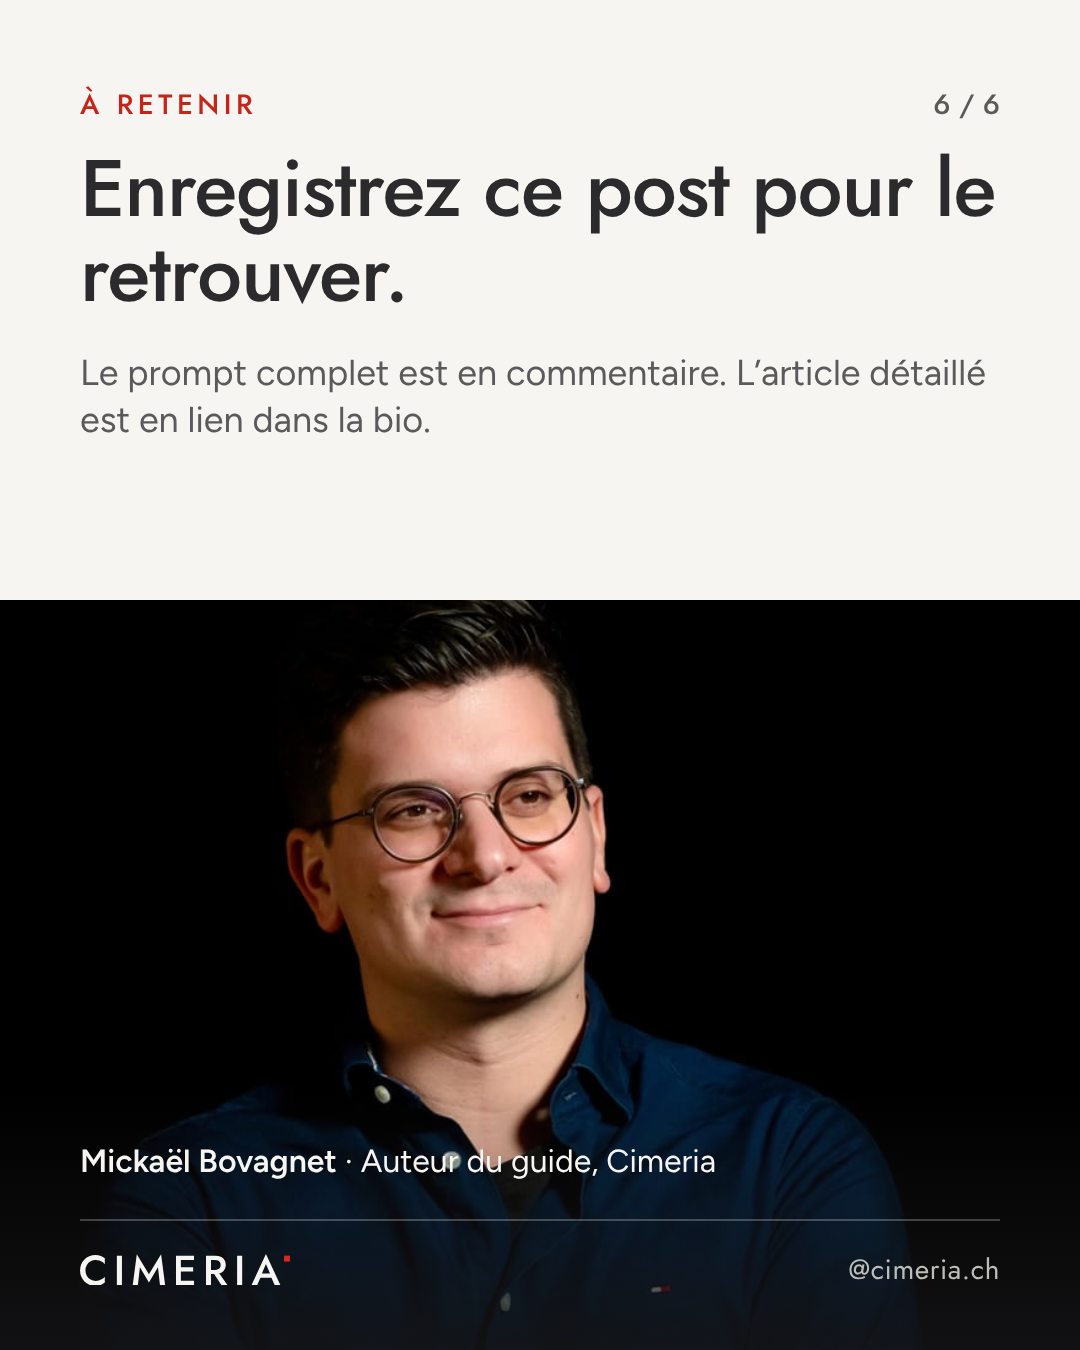
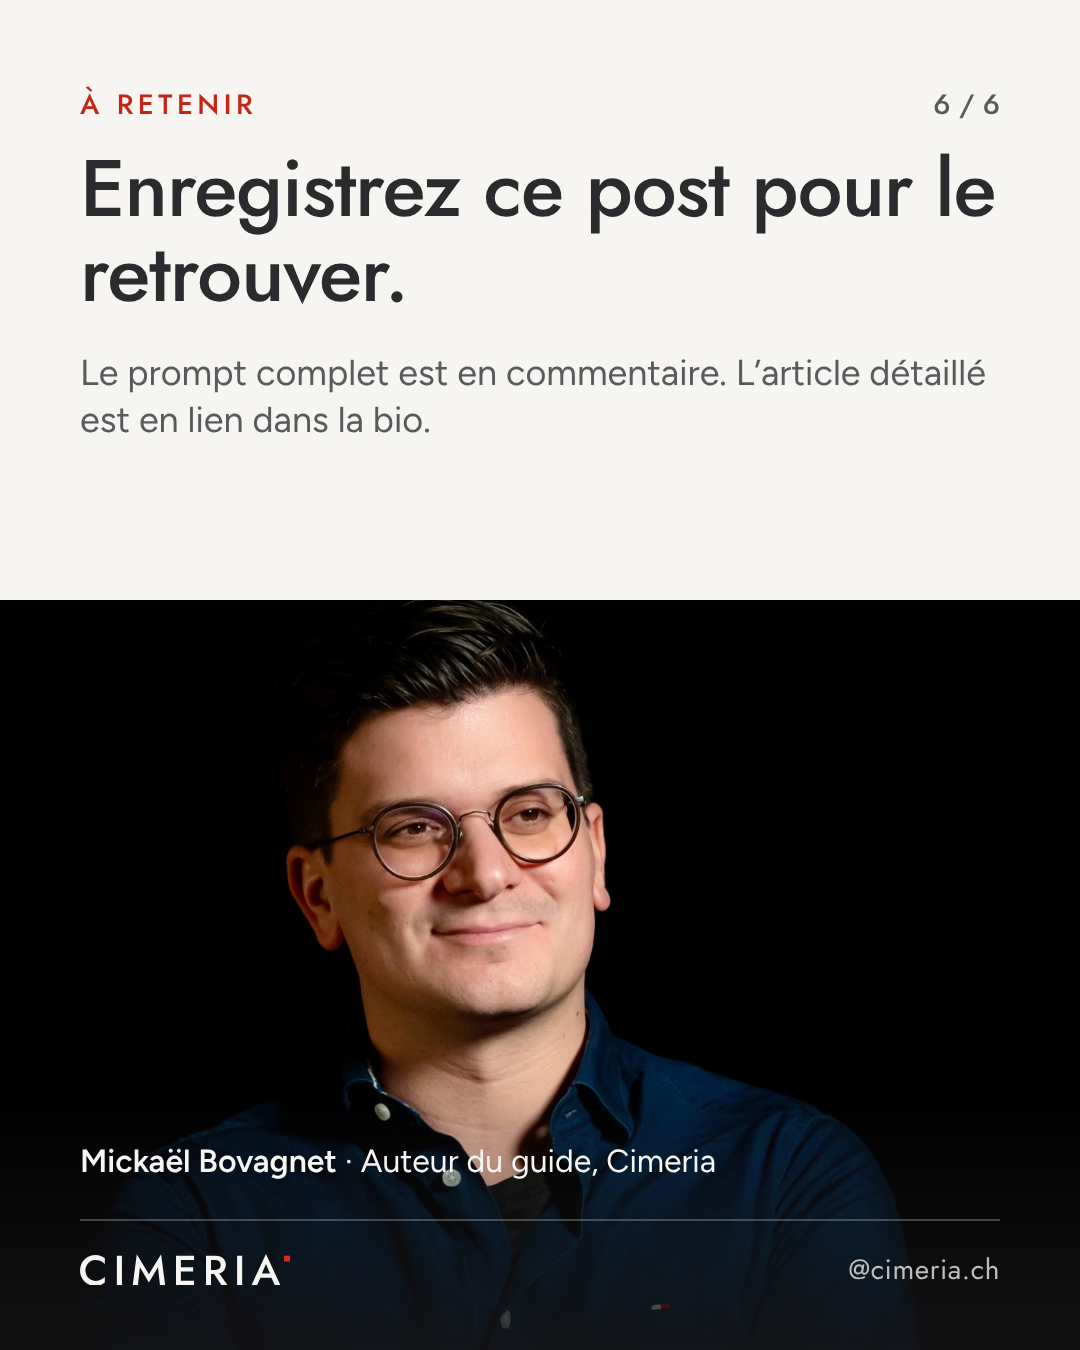
Portraits : règle des variantes IA, modèle de prompt en 4 C, photo de référence en haute définition
Claude-Session: https://claude.ai/code/session_01QYrK9sT28DGg33dLHEJ4sL

diff --git a/gabarits/generer.py b/gabarits/generer.py
@@ -401,13 +401,14 @@ def liste(v):
     return ed_page(c['fond'], corps)
 
 def point_de_vue(v):
-    """Citation de Mickaël et portrait en moitié basse. Champs : rubrique, citation (sans guillemets), auteur, photo (facultatif)."""
+    """Citation de Mickaël et portrait en moitié basse. Champs : rubrique, citation (sans guillemets), auteur, photo (facultatif), photo_ia (true pour une variante générée, voir images/portraits/README.md)."""
     c = CLAIR; photo = v.get("photo", str(ICI / "images/mickael-bovagnet.jpg"))
     corps = f"""<div class='rub'>{e(v.get('rubrique','Point de vue'))}</div>
-    <div class='ed-titre' style='position:absolute;left:80px;right:80px;top:146px;font-size:{tt(v['citation'],70,70,58)}px;line-height:1.08'>« {e(v['citation'])} »</div>
+    <div class='ed-titre' style='position:absolute;left:80px;right:80px;top:146px;font-size:{tt(v['citation'],70,70,58)}px;line-height:1.08'>{e('« ' + v['citation'] + ' »')}</div>
     <div style='position:absolute;left:80px;top:470px;font-size:30px;color:{c['douce']}'>{e(v.get('auteur','Mickaël Bovagnet, auteur du guide'))}</div>
     <div style='position:absolute;left:0;right:0;top:600px;bottom:0;background:url({img(photo)}) center 18%/cover'></div>
     <div style='position:absolute;left:0;right:0;bottom:0;height:220px;background:linear-gradient(rgba(20,20,22,0),rgba(20,20,22,.85))'></div>
+    {f"<div style='position:absolute;right:80px;bottom:150px;font-size:22px;color:rgba(246,245,242,.7)'>Portrait réalisé avec l’IA</div>" if v.get('photo_ia') else ''}
     <div class='pied' style='border-top-color:rgba(246,245,242,.25)'>{logotype(ED_BLANC_C, c['rouge'], 210)}<div class='site' style='color:{ED_DOUCE_S}'>{e(v.get('droite','cimeria.ch'))}</div></div>"""
     return ed_page(c['fond'], corps)
 
@@ -441,7 +442,7 @@ def cas_etape(v):
     <div style='position:absolute;left:80px;right:80px;top:430px;bottom:170px;display:flex;flex-direction:column'>
       <div style='background:#FFFFFF;border-radius:18px;padding:44px 52px;box-shadow:0 20px 50px rgba(43,43,45,.12)'>
         <div class='etiq'>Vous ajoutez</div>
-        <div style='font-size:50px;line-height:1.28;margin-top:16px'>« {e(v['ajout'])} »</div></div>
+        <div style='font-size:50px;line-height:1.28;margin-top:16px'>{e('« ' + v['ajout'] + ' »')}</div></div>
       <div style='flex:1;display:flex;flex-direction:column;justify-content:center;padding-top:36px'>
         <div class='etiq'>L’IA vous rend</div>{rend}
         <div class='etiq' style='margin-top:52px'>{e(lib)}</div>
@@ -450,7 +451,7 @@ def cas_etape(v):
     return ed_page(c['fond'], corps)
 
 def cas_fin(v):
-    """Dernière diapositive d'un cas pratique, même grille que le point de vue. Champs : titre, texte, auteur, photo (facultatif), position, total."""
+    """Dernière diapositive d'un cas pratique, même grille que le point de vue. Champs : titre, texte, auteur, photo (facultatif), photo_ia (true pour une variante générée), position, total."""
     c = CLAIR; photo = v.get("photo", str(ICI / "images/mickael-bovagnet.jpg"))
     corps = f"""<div class='rub'>{e(v.get('rubrique','À retenir'))}</div>{ed_cpt(v)}
     <div class='ed-titre' style='position:absolute;left:80px;right:80px;top:146px;font-size:80px'>{e(v.get('titre','Enregistrez ce post pour le retrouver.'))}</div>
@@ -458,6 +459,7 @@ def cas_fin(v):
     <div style='position:absolute;left:0;right:0;top:600px;bottom:0;background:url({img(photo)}) center 18%/cover'></div>
     <div style='position:absolute;left:0;right:0;bottom:0;height:260px;background:linear-gradient(rgba(20,20,22,0),rgba(20,20,22,.88))'></div>
     <div style='position:absolute;left:80px;bottom:170px;font-size:32px;color:{ED_BLANC_C}'><b style='font-weight:600'>{e(v.get('auteur','Mickaël Bovagnet'))}</b> · {e(v.get('fonction','Auteur du guide, Cimeria'))}</div>
+    {f"<div style='position:absolute;right:80px;bottom:150px;font-size:22px;color:rgba(246,245,242,.7)'>Portrait réalisé avec l’IA</div>" if v.get('photo_ia') else ''}
     <div class='pied' style='border-top-color:rgba(246,245,242,.25)'>{logotype(ED_BLANC_C, c['rouge'], 210)}<div class='site' style='color:{ED_DOUCE_S}'>{e(v.get('droite','@cimeria.ch'))}</div></div>"""
     return ed_page(c['fond'], corps)
 

diff --git a/gabarits/images/portraits/README.md b/gabarits/images/portraits/README.md
@@ -1,0 +1,95 @@
+# Portraits de Mickaël Bovagnet
+
+Règle validée par Mick le 17 novembre 2026. Elle complète la charte des réseaux (`CLAUDE.md`, section 4).
+
+## La règle
+
+### Ce qui est autorisé
+- Des variantes de portrait réalisées avec l'IA à partir d'une **vraie photo de Mickaël**, la photo de référence de ce dossier.
+- Uniquement sur les **réseaux sociaux de Cimeria** (Instagram, LinkedIn, Facebook), dans les gabarits `point_de_vue` et `cas_fin`.
+- Ce qui peut varier :
+  - la pose ;
+  - le cadrage, du gros plan au mi-corps ;
+  - l'expression ;
+  - la tenue, dans le style réel de Mickaël (chemise et veste bleu marine, chemise blanche) ;
+  - la lumière de studio.
+
+### Ce qui est interdit
+- Toute mise en scène inventée : lieu, décor, événement, scène de conférence, bureau, poignée de main, public.
+- Tout objet qui raconte une situation : micro, écran, livre, tasse, ordinateur.
+- Toute autre personne, même floue.
+- Toute modification de l'apparence de Mickaël :
+  - visage, âge, poids, carrure ;
+  - coupe de cheveux, barbe ;
+  - lunettes ;
+  - peau lissée.
+- Un logo de marque sur les vêtements, du texte, un accessoire absent de la photo d'origine.
+- Une variante tirée d'une autre variante. On repart toujours de la photo de référence pour éviter que la ressemblance dérive.
+- La photo de profil des comptes, le site cimeria.ch et le profil LinkedIn personnel de Mickaël. Ils gardent une vraie photo.
+
+### Ressemblance stricte
+Une variante n'est retenue que si elle passe **chaque** point ci-dessous, en comparaison côte à côte avec la photo de référence, à taille réelle. Au moindre doute, elle est rejetée.
+
+1. La forme du visage, du nez, des oreilles et de la mâchoire est identique.
+2. Les lunettes sont rondes, à fine monture métallique, de même taille sur le visage.
+3. Les cheveux bruns courts sont coiffés vers l'arrière, avec la même implantation et le même volume.
+4. Les yeux sont bruns, les sourcils ont la même forme et le sourire garde la même légère asymétrie.
+5. La carnation et le grain de peau sont naturels, sans effet de peau de cire.
+6. Les mains ont cinq doigts, des articulations crédibles et aucune déformation.
+7. Les vêtements sont cohérents : boutons alignés, col symétrique, aucun logo.
+8. Le fond est uni, sans tache, sans motif et sans artefact.
+9. Mickaël valide lui-même. Idéalement, un proche confirme qu'il le reconnaît sans hésiter.
+
+### Transparence
+- Le texte alternatif de chaque image qui contient une variante mentionne « Portrait réalisé avec l'IA à partir d'une photo de Mickaël Bovagnet ».
+- Le visuel porte la mention discrète « Portrait réalisé avec l'IA » au bas de la photo. Les gabarits l'ajoutent quand le champ `photo_ia` vaut `true`.
+- À la publication sur Instagram, Mickaël active l'étiquette IA dans les paramètres avancés du post.
+- Les variantes ne sont jamais présentées comme des photos prises sur le vif.
+
+### Rangement
+- Photo de référence : `reference-bras-croises.jpg`, vraie photo, sans métadonnées.
+- Variantes validées : `ia-NN-pose.jpg` (par exemple `ia-01-explique-assis.jpg`), en 1'500 pixels de large au moins.
+- Chaque variante est inscrite dans `registre.md` avec la pose, l'outil, la date et la validation.
+- Les métadonnées des fichiers sont retirées avant d'entrer dans ce dépôt, qui est public.
+
+## Le modèle de prompt
+
+Il suit la méthode des 4 C de Cimeria. Joindre la photo de référence, coller le prompt, remplacer la ligne « Pose » par une pose du catalogue ci-dessous. Une seule variante par demande, en repartant toujours de la photo de référence.
+
+```text
+Contexte
+Voici une vraie photo de moi, Mickaël Bovagnet, prise en studio. Je publie un média sur l'intelligence artificielle pour des dirigeants de PME en Suisse romande. J'ai besoin de variantes de ce portrait pour mes réseaux sociaux, sans repasser par le studio.
+
+Consigne
+Crée une nouvelle photo de moi, avec une autre pose, en gardant exactement mon visage et mon apparence. La personne sur l'image doit être reconnaissable sans hésitation par quelqu'un qui me connaît.
+
+Contenu
+Pose : [coller une pose du catalogue]
+Garde à l'identique : la forme du visage, du nez, des oreilles et de la mâchoire, mes yeux bruns et mes sourcils, mes cheveux bruns courts coiffés vers l'arrière, mes lunettes rondes à fine monture métallique, ma carnation et le grain naturel de ma peau, mon âge et ma carrure, mon sourire légèrement asymétrique.
+Tenue : chemise bleu marine unie comme sur la photo, sans aucun logo. [ou : veste bleu marine sur chemise blanche unie]
+
+Cadre
+Photo de studio réaliste, fond uni anthracite très sombre et sans motif, lumière douce venant de la gauche comme sur la photo d'origine, rendu d'un objectif de 85 mm. Format vertical 4:5, haute définition, au moins 1'500 pixels de large. Laisse de l'espace au-dessus de la tête.
+N'ajoute aucun décor, aucun objet, aucune autre personne, aucun texte, aucun logo, aucun accessoire. Ne lisse pas la peau, ne me rajeunis pas, ne m'amincis pas, ne change pas mes lunettes ni ma coiffure.
+Si une consigne t'oblige à modifier mon visage, garde le visage et simplifie la pose.
+```
+
+Une version anglaise donne parfois un meilleur résultat selon l'outil. Elle reprend les mêmes blocs : « Keep my face and appearance exactly as in the attached photo… ».
+
+## Catalogue de poses
+
+Chaque pose est pensée pour la moitié basse des gabarits `point_de_vue` et `cas_fin`, une zone horizontale de 1'080 x 750 pixels. Le visage doit se trouver dans le tiers haut de l'image.
+
+| Code | Pose à coller dans le prompt | Usage |
+|---|---|---|
+| `explique-assis` | Assis derrière une table nue et sombre, avant-bras posés, mains ouvertes vers l'avant comme en train d'expliquer, regard légèrement hors cadre vers la droite, bouche détendue. Cadrage à mi-corps. | Point de vue, fin de cas pratique |
+| `ecoute-assis` | Assis derrière une table nue et sombre, mains croisées posées à plat, buste penché vers l'avant, regard attentif vers l'objectif. Cadrage à mi-corps. | Fin de cas pratique |
+| `accueil-debout` | Debout, face à l'objectif, mains jointes devant lui à hauteur de la taille, sourire chaleureux, regard caméra. Cadrage à mi-corps. | Présentation de Cimeria |
+| `gros-plan` | Gros plan du visage et des épaules, de face, regard caméra, sourire léger. | Point de vue court, vignette |
+| `trois-quarts-pensif` | Buste de trois quarts tourné vers la gauche, regard au loin, expression pensive et calme, bras le long du corps. | Point de vue sur un sujet de fond |
+| `main-menton` | Buste de face, une main près du menton, index le long de la joue, regard caméra, expression réfléchie. | Point de vue, question de fond |
+| `bras-croises` | La photo de référence elle-même, sans génération. | Tous usages |
+
+## Ce que cette règle permet aussi
+
+Le procédé peut devenir un cas pratique, « Des portraits variés à partir d'une seule photo ». Le post montrera la photo de référence, le prompt et la grille de vérification. Comme tout cas pratique, il part d'un article publié sur cimeria.ch, à écrire d'abord.

diff --git a/CLAUDE.md b/CLAUDE.md
@@ -54,8 +54,14 @@ Formats d'image unique, à alterner avec les carrousels dans la grille du profil
 - Le rouge (#DA291C, #F04A3B sur anthracite) est réservé à la rubrique, au carré du logo, à la barre de progression et à la partie `accent` d'un chiffre clé. Jamais de surlignage, de cadre ni d'aplat rouge.
 - Jost pour les titres, étiquettes et chiffres, Figtree pour les textes.
 - Logotype Cimeria en pied de chaque visuel, d'un seul bloc, sans jamais isoler « ia ». Aucun quadrillage sur les visuels des réseaux.
-- Les illustrations sont des dessins au trait anthracite, un seul détail rouge, rangés dans `gabarits/illustrations/` (SVG 600 x 420). Jamais d'image générée par IA, de photo de banque d'images ni de logo d'un éditeur.
-- Les photos sont celles de Mickaël, fournies par lui.
+- Les illustrations sont des dessins au trait anthracite, un seul détail rouge, rangés dans `gabarits/illustrations/` (SVG 600 x 420). Jamais de photo de banque d'images ni de logo d'un éditeur.
+- Les photos sont celles de Mickaël. Les seules images générées par IA autorisées sont des variantes de son portrait, tirées de sa vraie photo de référence, selon la règle de `gabarits/images/portraits/README.md` (validée le 17 novembre 2026) :
+  - ressemblance stricte ;
+  - aucune mise en scène inventée ;
+  - mention « Portrait réalisé avec l'IA » sur le visuel (`photo_ia: true`) et dans le texte alternatif ;
+  - étiquette IA activée par Mick sur Instagram.
+
+  Les variantes servent sur les réseaux seulement, jamais en photo de profil ni sur le site.
 - Uniquement les gabarits de `gabarits/generer.py`, sans mise en page improvisée. `apercus/` montre chaque gabarit. Les gabarits `couverture_ia`, `lecon`, `etape_methode`, `capture` et `fin` sont conservés pour l'archive et ne servent plus.
 
 ### 5. Relire deux fois avant d'envoyer à Mick
@@ -80,7 +86,7 @@ Organisation 6af56cc922ccef12afddbdf0 (« My organization », offre gratuite : 3
 - **Facebook** (6afb1540ece6dfde5fe51193, page cimeria.ch) : les mêmes images en album, avec une légende proche d'Instagram et un lien direct vers l'article.
 
 ### 8. Soumettre à Mick
-Envoyer la planche, le premier commentaire et un court récapitulatif. Mick valide, publie et poste le commentaire.
+Envoyer la planche, le premier commentaire et un court récapitulatif. Mick valide, publie et poste le commentaire. Quand un visuel contient un portrait généré, le récapitulatif le signale pour qu'il active l'étiquette IA d'Instagram.
 
 ## Version allégée pour l'actualité
 
@@ -92,7 +98,8 @@ Envoyer la planche, le premier commentaire et un court récapitulatif. Mick vali
 
 ## Arborescence
 
-- `gabarits/` : générateur, polices Jost et Figtree, portrait, illustrations au trait.
+- `gabarits/` : générateur, polices Jost et Figtree, illustrations au trait.
+- `gabarits/images/portraits/` : photo de référence, variantes validées, règle, modèle de prompt et registre.
 - `maquettes/2026-11-17/` : les maquettes qui ont mené à la grille éditoriale.
 - `publications/2026-11-12/` : archive de l'époque Dominia, à ne pas republier telle quelle.
 - `publications/AAAA-MM-JJ/sujet/` : `sources/`, fichiers JSON de chaque version, images, `planche.png`, `premier-commentaire.txt`.

diff --git a/gabarits/images/portraits/registre.md b/gabarits/images/portraits/registre.md
@@ -1,0 +1,7 @@
+# Registre des portraits
+
+Chaque fichier de ce dossier y figure. Une variante générée n'entre dans le dépôt qu'après validation par Mickaël.
+
+| Fichier | Nature | Pose | Outil | Date | Validé par |
+|---|---|---|---|---|---|
+| `reference-bras-croises.jpg` | Vraie photo, studio | Bras croisés | Aucun | 2026-11-17 | Mickaël Bovagnet |
